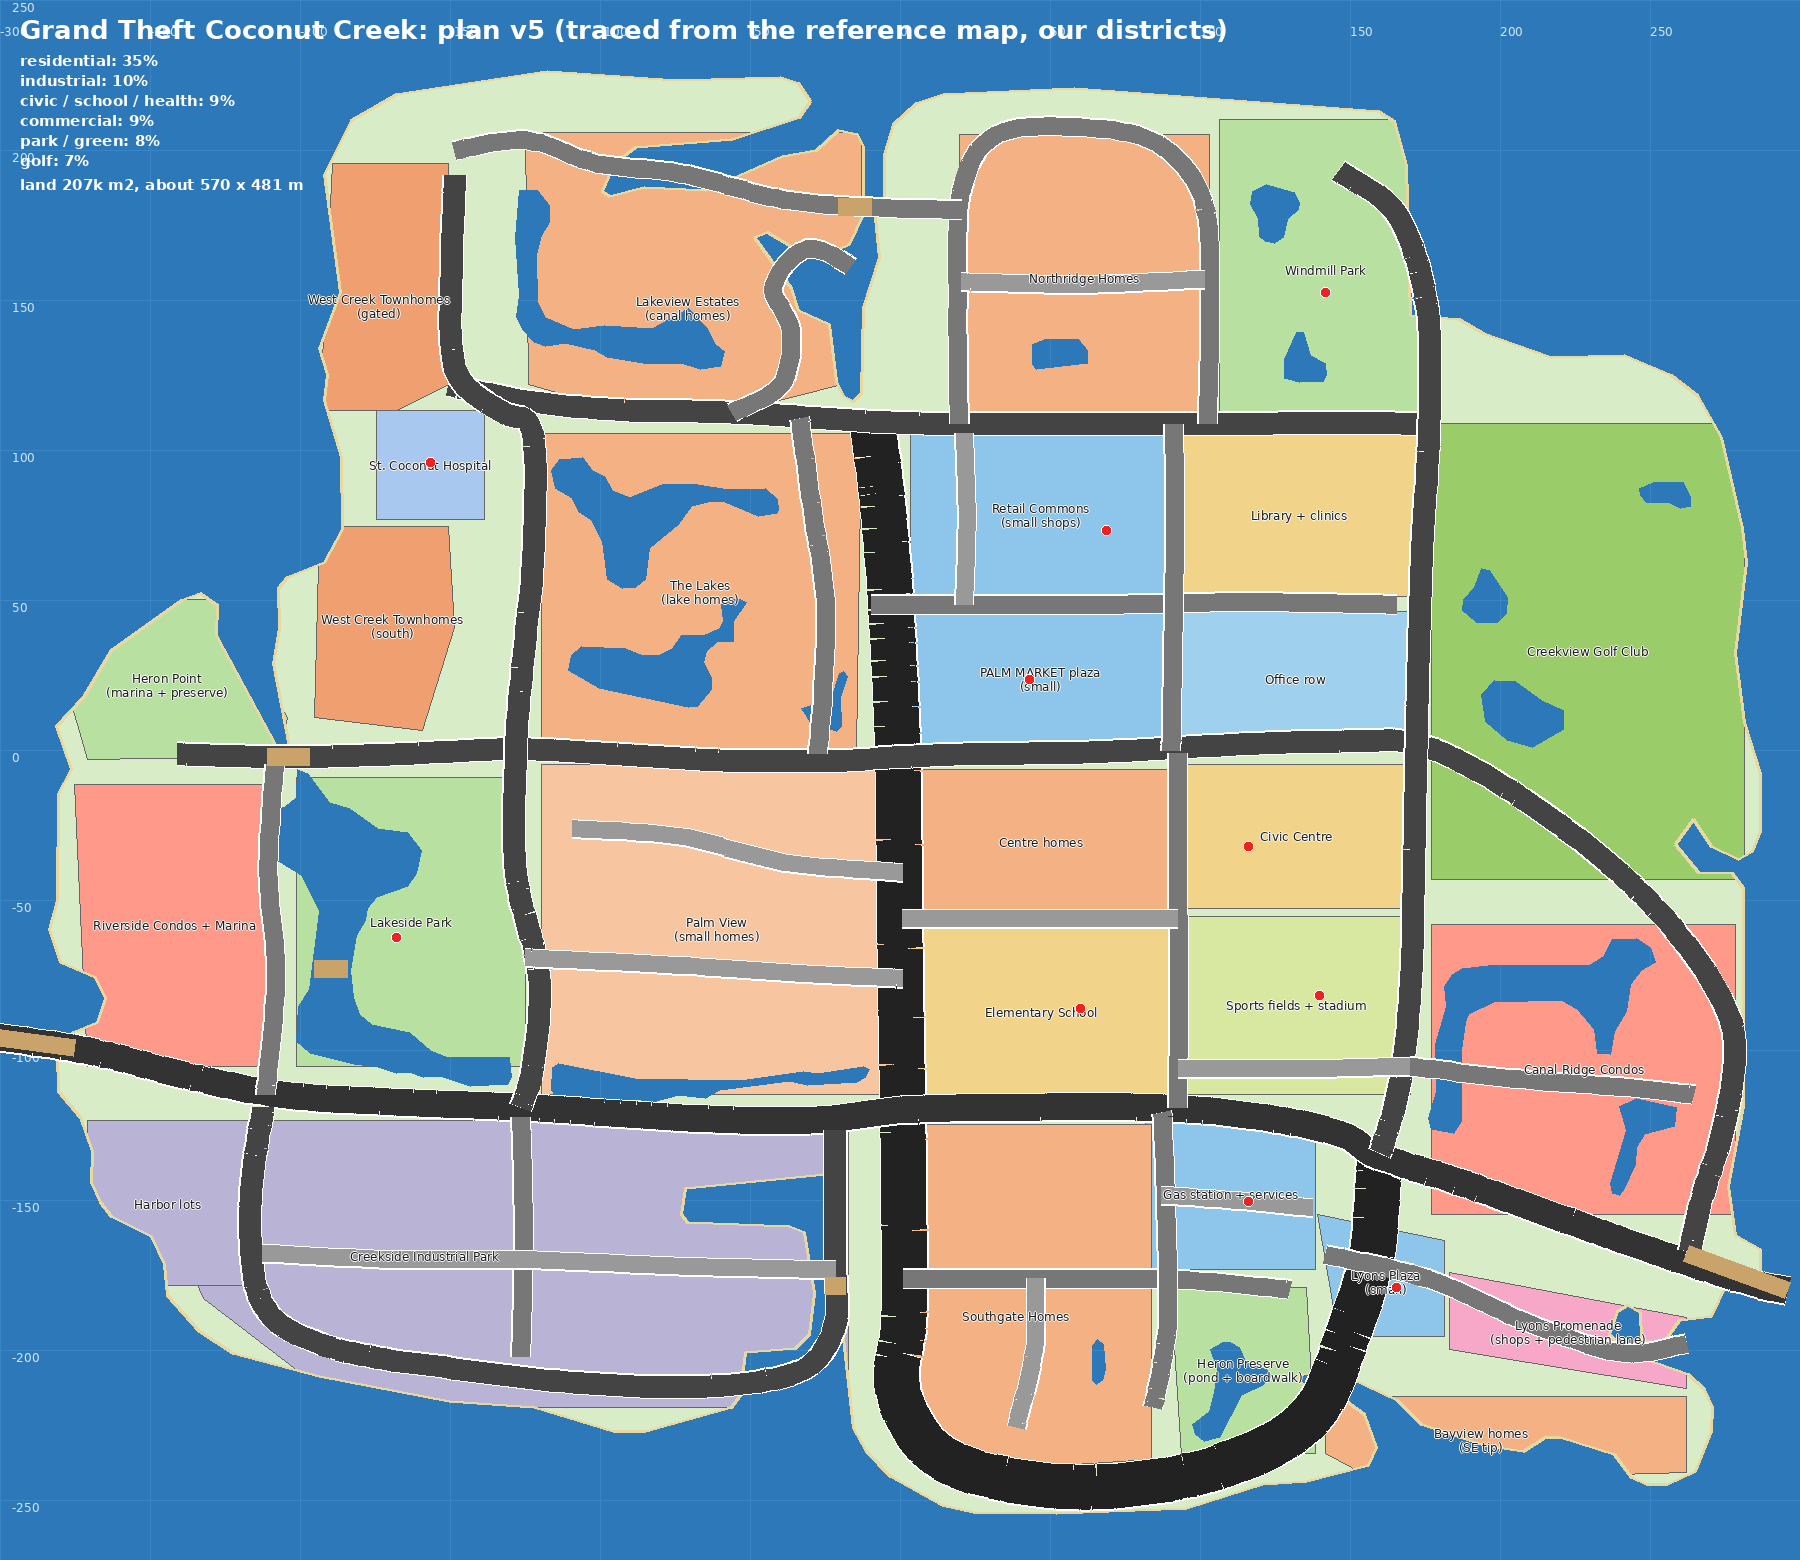
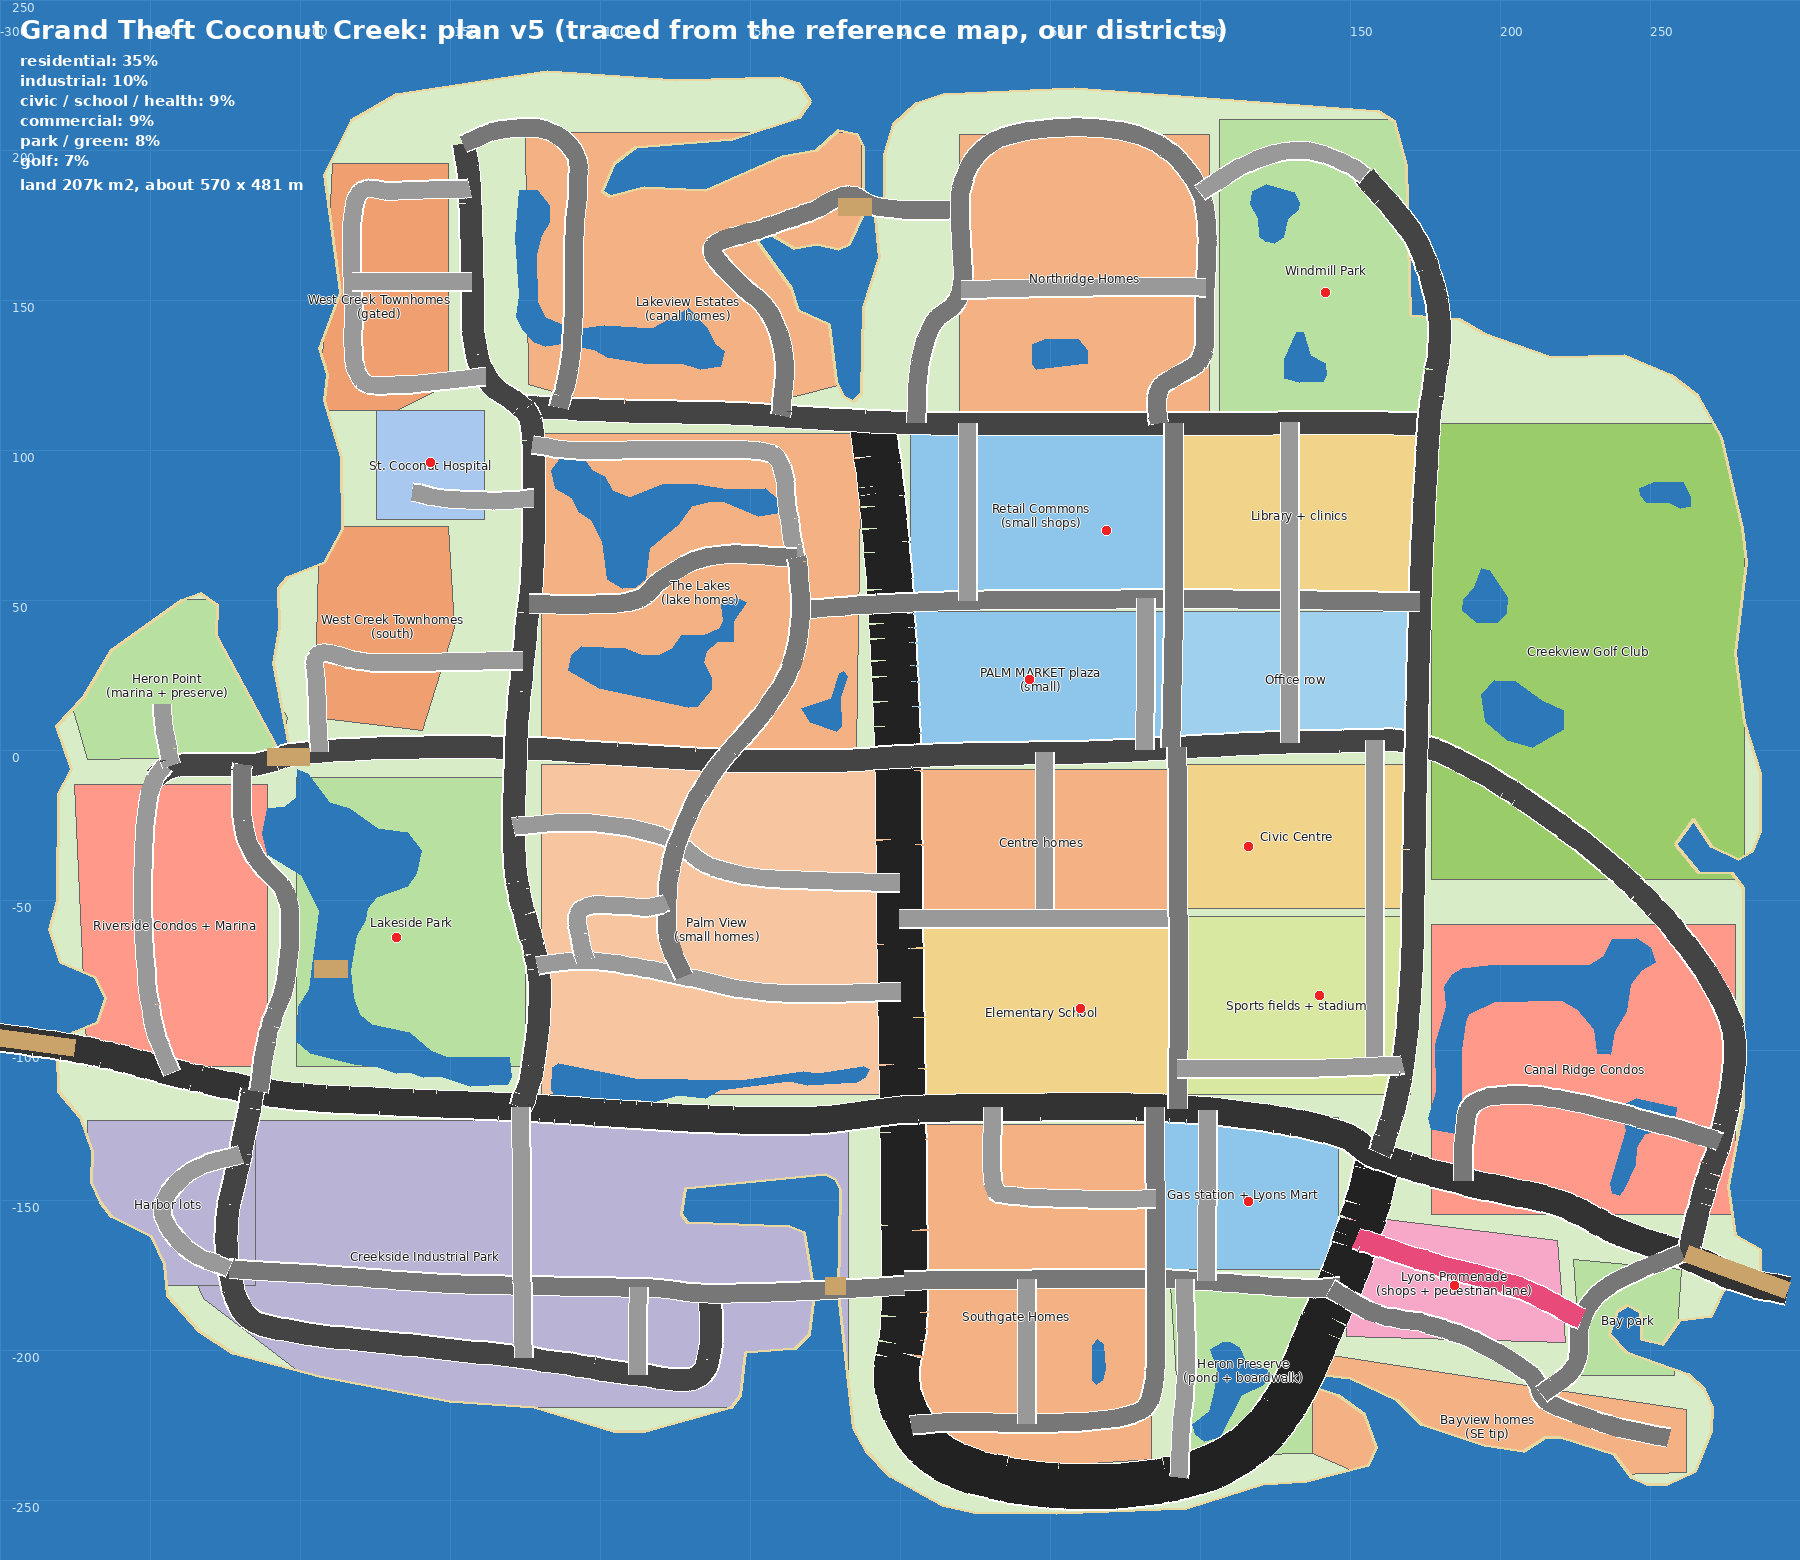
city-clone: plan v5 local streets (about 50 roads), road ends snap onto other roads, no loose ends
Claude-Session: https://claude.ai/code/session_01QbDoFPGu5z24oXZd8dk3Jx

diff --git a/city-clone/plan/map_px.py b/city-clone/plan/map_px.py
@@ -5,38 +5,102 @@ Scale: 0.43 m per pixel, origin = pixel (690, 545) = Coconut Creek Pkwy x mid ro
 SCALE = 0.43; OX, OY = 690, 545
 def to_m(p): return ((p[0] - OX) * SCALE, -(p[1] - OY) * SCALE)
 
-# name: (rank, half-width m, points px).  rank 10 boulevard, 9 arterial, 8 main, 6 collector, 5 local
-ROADS = {
- "Coconut Creek Pkwy": (10, 8.4, [(668, 290), (675, 340), (682, 420), (688, 540), (690, 700), (692, 820), (693, 900), (693, 985), (688, 1040), (715, 1088), (770, 1110), (850, 1116), (940, 1100), (1008, 1062), (1040, 990), (1056, 935), (1062, 858)]),
- "Wiles Rd": (9, 5.0, [(-20, 766), (60, 778), (130, 796), (210, 812), (300, 818), (400, 822), (520, 830), (620, 832), (692, 824), (780, 822), (880, 822), (960, 828), (1030, 842), (1062, 860), (1130, 882), (1250, 925), (1340, 955), (1378, 964)]),
- "Palm Blvd": (8, 4.2, [(130, 548), (215, 550), (300, 548), (390, 544), (470, 548), (560, 553), (640, 553), (692, 550), (740, 548), (850, 546), (960, 540), (1040, 538), (1090, 540), (1150, 568), (1230, 625), (1295, 690), (1335, 760), (1330, 830), (1312, 890), (1302, 934)]),
- "Northridge Rd": (8, 4.2, [(340, 262), (400, 274), (470, 281), (560, 283), (668, 290), (740, 292), (840, 292), (940, 292), (1030, 291), (1098, 292)]),
- "Creekview Dr": (8, 4.2, [(1030, 96), (1075, 130), (1098, 200), (1100, 292), (1094, 400), (1090, 540), (1088, 640), (1086, 720), (1078, 800), (1062, 858)]),
- "West Creek Rd": (8, 4.2, [(345, 100), (342, 170), (345, 250), (380, 282), (405, 300), (405, 400), (398, 470), (392, 545), (392, 640), (410, 720), (405, 790), (396, 822)]),
- "Creekside Loop": (8, 4.2, [(196, 822), (186, 900), (196, 975), (250, 1008), (350, 1025), (450, 1036), (545, 1038), (615, 1025), (640, 990), (640, 940), (640, 840)]),
- "Northridge Loop": (6, 3.5, [(736, 292), (735, 200), (738, 112), (765, 68), (830, 62), (890, 75), (925, 120), (930, 200), (928, 292)]),
- "Northridge Ln": (5, 3.2, [(738, 182), (830, 184), (926, 180)]),
- "Lakeview Bridge Rd": (6, 3.5, [(345, 80), (400, 72), (455, 90), (520, 98), (600, 118), (668, 124), (738, 126)]),
- "Lakeview Dr": (6, 3.5, [(560, 283), (598, 262), (606, 220), (592, 186), (618, 156), (652, 170)]),
- "Retail Dr": (6, 3.5, [(668, 432), (740, 432), (850, 432), (960, 430), (1075, 432)]),
- "Commons Ave": (6, 3.5, [(902, 293), (903, 360), (902, 432), (900, 545)]),
- "Civic Rd": (6, 3.5, [(905, 548), (905, 640), (906, 720), (905, 822)]),
- "Fields Dr": (5, 3.2, [(906, 792), (1000, 792), (1086, 790)]),
+# name: (rank, half-width m, points px).  rank 10 boulevard, 9 arterial, 8 main, 6 collector, 5 local, 3 pedestrian lane.
+# Every road end is snapped onto another road within SNAP px (so nothing nearly meets); loose ends are listed by check_roads() unless named in OK_ENDS.
+RAW_ROADS = {
+ "Coconut Creek Pkwy": (10, 8.4, [(668, 290), (675, 340), (682, 420), (688, 540), (690, 700), (692, 820), (693, 900), (693, 985), (688, 1040), (715, 1088), (770, 1110), (850, 1116), (920, 1105), (965, 1080), (995, 1040), (1015, 995), (1033, 955), (1050, 905), (1062, 858)]),
+ "Wiles Rd": (9, 5.0, [(-20, 766), (60, 778), (130, 796), (210, 812), (300, 818), (400, 822), (520, 830), (620, 832), (692, 824), (780, 822), (880, 822), (960, 828), (1030, 842), (1062, 860), (1130, 880), (1200, 896), (1250, 920), (1300, 937), (1340, 955), (1378, 964)]),
+ "Palm Blvd": (8, 4.2, [(100, 558), (130, 557), (190, 556), (212, 550), (240, 546), (300, 543), (390, 543), (470, 548), (560, 553), (640, 553), (692, 550), (740, 548), (850, 546), (960, 540), (1040, 538), (1090, 540), (1150, 568), (1230, 625), (1295, 690), (1335, 760), (1330, 830), (1312, 890), (1302, 934)]),
+ "Northridge Rd": (8, 4.2, [(395, 278), (470, 282), (560, 284), (668, 290), (740, 292), (840, 292), (940, 292), (1030, 291), (1098, 292)]),
+ "Creekview Dr": (8, 4.2, [(1050, 100), (1090, 150), (1108, 215), (1100, 292), (1094, 400), (1090, 540), (1088, 640), (1086, 720), (1078, 800), (1062, 858)]),
+ "West Creek Rd": (8, 4.2, [(352, 75), (356, 110), (358, 170), (360, 230), (372, 260), (395, 278), (405, 300), (405, 400), (398, 470), (392, 545), (392, 640), (410, 720), (405, 790), (396, 822)]),
+ "Creekside Loop": (8, 4.2, [(186, 822), (176, 870), (168, 910), (170, 950), (185, 985), (230, 997), (300, 1005), (400, 1016), (480, 1028), (530, 1032), (543, 1010), (543, 975)]),
+ # north-west lobe
+ "Lakeview Loop": (6, 3.5, [(352, 75), (380, 64), (415, 64), (438, 82), (440, 110), (437, 150), (437, 200), (433, 250), (425, 279)]),
+ "Lakeview Island Rd": (6, 3.5, [(738, 126), (700, 127), (668, 123), (650, 115), (620, 128), (580, 142), (545, 155), (560, 178), (588, 205), (600, 240), (598, 278)]),
+ "West Creek Ln": (5, 3.2, [(357, 110), (300, 112), (268, 118), (266, 200), (270, 255), (300, 262), (358, 262)]),
+ "West Creek Ln 2": (5, 3.2, [(268, 182), (312, 182), (358, 182)]),
+ "Hospital Dr": (5, 3.2, [(405, 350), (375, 352), (335, 350), (312, 345)]),
+ "Townhome Ln": (5, 3.2, [(240, 546), (238, 500), (240, 470), (280, 477), (370, 476), (400, 476)]),
+ # north-east lobe
+ "Northridge Loop": (6, 3.5, [(703, 292), (705, 250), (715, 215), (738, 188), (738, 110), (765, 72), (830, 62), (890, 75), (925, 120), (926, 200), (924, 240), (905, 255), (890, 266), (890, 292)]),
+ "Northridge Ln": (5, 3.2, [(738, 188), (850, 186), (925, 186)]),
+ "Windmill Dr": (5, 3.2, [(925, 112), (960, 90), (1000, 80), (1035, 90), (1050, 100)]),
+ # centre
+ "Retail Dr": (6, 3.5, [(613, 436), (640, 434), (668, 432), (740, 429), (850, 428), (960, 428), (1094, 430)]),
+ "Retail Row": (5, 3.2, [(742, 293), (742, 429)]),
+ "Commons Ave": (6, 3.5, [(902, 293), (902, 428), (900, 546)]),
+ "Market Ln": (5, 3.2, [(880, 429), (880, 546)]),
+ "Mart Lane": (5, 3.2, [(992, 293), (992, 430), (992, 540)]),
+ "Centre Ln": (5, 3.2, [(802, 548), (802, 676)]),
  "School Dr": (5, 3.2, [(692, 676), (780, 676), (905, 676)]),
- "Southgate Rd": (6, 3.5, [(693, 955), (800, 955), (900, 955), (992, 963)]),
- "Southgate Ln": (6, 3.5, [(893, 826), (896, 900), (897, 990), (886, 1055)]),
- "Lyons Ln": (6, 3.5, [(1020, 936), (1100, 955), (1180, 990), (1250, 1012), (1300, 1005)]),
- "Canal Rd": (6, 3.5, [(1086, 790), (1170, 800), (1250, 806), (1305, 812)]),
- "Lakes Dr": (6, 3.5, [(612, 288), (622, 360), (632, 430), (630, 500), (626, 548)]),
- "Palm View Rd": (5, 3.2, [(400, 706), (520, 712), (610, 718), (692, 722)]),
- "Palm Ct Rd": (5, 3.2, [(436, 606), (520, 612), (600, 632), (692, 640)]),
- "Riverside Dr": (6, 3.5, [(205, 556), (200, 640), (206, 720), (198, 812)]),
- "Creekside Rd": (6, 3.5, [(396, 830), (398, 920), (396, 1015)]),
- "Industrial Row": (5, 3.2, [(196, 935), (300, 940), (396, 940), (520, 945), (640, 948)]),
- "Retail Row": (5, 3.2, [(740, 432), (742, 365), (740, 300)]),
- "Southgate Ave": (5, 3.2, [(795, 955), (794, 1010), (780, 1070)]),
- "Gas Station Rd": (5, 3.2, [(893, 890), (960, 895), (1010, 900)]),
+ "Civic Rd": (6, 3.5, [(905, 548), (905, 640), (906, 720), (905, 822)]),
+ "Stadium Ln": (5, 3.2, [(1058, 548), (1058, 676), (1058, 790)]),
+ "Fields Dr": (5, 3.2, [(906, 792), (1000, 792), (1086, 790)]),
+ # the lakes + palm view
+ "Lakes Lane N": (5, 3.2, [(405, 308), (440, 313), (500, 312), (580, 313), (598, 325), (603, 360), (609, 395)]),
+ "Lakes Dr": (6, 3.5, [(405, 432), (480, 430), (505, 413), (530, 398), (560, 393), (610, 396)]),
+ "Lakes Diag N": (6, 3.5, [(610, 396), (613, 440), (605, 480), (585, 515), (556, 548)]),
+ "Palm Ct Rd": (5, 3.2, [(396, 604), (437, 601), (480, 605), (515, 616), (540, 634), (575, 643), (620, 646), (688, 648)]),
+ "Palm View Rd": (5, 3.2, [(410, 712), (445, 708), (485, 713), (525, 721), (570, 731), (620, 734), (688, 732)]),
+ "Lakes Diag S": (6, 3.5, [(556, 548), (535, 578), (518, 614), (510, 650), (510, 690), (522, 721)]),
+ "Palm View Loop": (5, 3.2, [(446, 708), (443, 668), (495, 667), (510, 663)]),
+ # west
+ "Riverside Dr": (6, 3.5, [(180, 558), (180, 600), (190, 628), (213, 655), (217, 690), (212, 730), (200, 765), (193, 808)]),
+ "Marina Dr": (5, 3.2, [(120, 558), (108, 578), (103, 640), (105, 710), (112, 760), (125, 795)]),
+ "Heron Point Dr": (5, 3.2, [(125, 557), (120, 530), (118, 510)]),
+ # industrial
+ "Industrial Row": (6, 3.5, [(172, 948), (250, 952), (330, 958), (397, 960), (497, 962), (542, 966), (620, 964), (692, 960)]),
+ "Creekside Rd": (5, 3.2, [(397, 826), (397, 960), (398, 1016)]),
+ "Dock Ln": (5, 3.2, [(487, 962), (487, 1024)]),
+ "Harbor Lot Rd": (5, 3.2, [(176, 858), (140, 872), (118, 900), (135, 930), (170, 947)]),
+ # south-east
+ "Southgate Rd": (6, 3.5, [(693, 956), (800, 955), (900, 955), (1000, 962), (1034, 962)]),
+ "Southgate Ln": (6, 3.5, [(887, 826), (888, 955), (886, 1040), (870, 1060), (830, 1066), (780, 1067), (738, 1066), (700, 1068)]),
+ "Southgate Ave": (5, 3.2, [(788, 955), (788, 1066)]),
+ "Southgate Ct": (5, 3.2, [(762, 838), (762, 880), (775, 890), (830, 893), (887, 893)]),
+ "Gas Station Rd": (5, 3.2, [(928, 826), (928, 955)]),
+ "Preserve Rd": (5, 3.2, [(910, 962), (912, 1020), (908, 1070), (906, 1108)]),
+ "Lyons Ln": (6, 3.5, [(1024, 965), (1060, 982), (1100, 990), (1140, 1005), (1180, 1030), (1192, 1050), (1240, 1068), (1286, 1078)]),
+ "Bay Dr": (6, 3.5, [(1296, 936), (1253, 953), (1230, 968), (1217, 990), (1213, 1023), (1192, 1042)]),
+ "Lyons Promenade": (3, 4.0, [(1048, 925), (1110, 945), (1170, 962), (1216, 985)]),
+ "Canal Ridge Dr": (6, 3.5, [(1128, 874), (1128, 840), (1135, 818), (1170, 812), (1215, 818), (1280, 835), (1318, 846)]),
 }
+OK_ENDS = {("Palm Blvd", 0), ("Heron Point Dr", -1), ("Hospital Dr", -1), ("Lyons Ln", -1), ("Wiles Rd", 0), ("Wiles Rd", -1)}   # coast / bridge-gate / lot / cul-de-sac ends allowed
+SNAP = 17.0
+def _cr(pts, step=4.0):
+    import math
+    n = len(pts); out = []
+    for i in range(n - 1):
+        p0, p1, p2, p3 = pts[max(i - 1, 0)], pts[i], pts[i + 1], pts[min(i + 2, n - 1)]
+        k = max(2, int(math.dist(p1, p2) / step))
+        for j in range(k):
+            t = j / k; t2, t3 = t * t, t * t * t
+            out.append(tuple(.5 * ((2 * p1[d]) + (-p0[d] + p2[d]) * t + (2 * p0[d] - 5 * p1[d] + 4 * p2[d] - p3[d]) * t2 + (-p0[d] + 3 * p1[d] - 3 * p2[d] + p3[d]) * t3) for d in (0, 1)))
+    out.append(tuple(pts[-1])); return out
+def _seg_near(p, poly):
+    import math
+    best = (1e9, None)
+    for a, b in zip(poly, poly[1:]):
+        dx, dy = b[0] - a[0], b[1] - a[1]; L2 = dx * dx + dy * dy or 1; t = max(0, min(1, ((p[0] - a[0]) * dx + (p[1] - a[1]) * dy) / L2)); q = (a[0] + dx * t, a[1] + dy * t); d = math.dist(p, q)
+        if d < best[0]: best = (d, q)
+    return best
+def snap_roads(raw):
+    """Move each road end onto the nearest other road if within SNAP px; returns (roads, loose ends)."""
+    smooth = {k: _cr(v[2]) for k, v in raw.items()}; out = {}; loose = []
+    for k, (rank, hw, pts) in raw.items():
+        pts = list(pts)
+        for idx in (0, -1):
+            e = pts[idx]; best = (1e9, None, None)
+            for k2, sm in smooth.items():
+                if k2 == k: continue
+                d, q = _seg_near(e, sm)
+                if d < best[0]: best = (d, q, k2)
+            if best[0] <= SNAP: pts[idx] = (round(best[1][0], 1), round(best[1][1], 1))
+            elif (k, idx) not in OK_ENDS and rank > 3: loose.append((k, idx, e, round(best[0]), best[2]))
+        out[k] = (rank, hw, pts)
+    return out, loose
+ROADS, LOOSE_ENDS = snap_roads(RAW_ROADS)
 # bridges: (name, a, b) pixel endpoints, carry the road across water
 BRIDGES = [("Wiles West Bridge", (-20, 766), (50, 776)), ("Wiles East Bridge", (1300, 935), (1378, 964)), ("Palm Blvd Bridge", (200, 550), (232, 550)),
            ("Lakeview Bridge", (642, 124), (668, 124)), ("Creekside Bridge", (632, 960), (648, 960)), ("Lakeside footbridge", (236, 714), (262, 714))]
@@ -68,13 +132,13 @@ DISTRICTS = {
  "Windmill Park": (GRN, "#b8e0a0", [(938, 56), (1100, 56), (1104, 290), (938, 290)]),
  "Creekview Golf Club": (GOLF, "#9acd6a", [(1102, 292), (1345, 292), (1345, 645), (1102, 645)]),
  "Canal Ridge Condos": (RES, "#ff9a8a", [(1102, 680), (1338, 680), (1338, 905), (1102, 905)]),
- "Gas station + services": (COM, "#8ec5ea", [(880, 830), (1012, 830), (1012, 948), (880, 948)]),
- "Lyons Plaza (small)": (COM, "#8ec5ea", [(1014, 905), (1112, 925), (1112, 1000), (1030, 1000)]),
- "Lyons Promenade (shops + pedestrian lane)": (COM, "#f7a8c8", [(1116, 950), (1300, 985), (1300, 1040), (1116, 1010)]),
+ "Gas station + Lyons Mart": (COM, "#8ec5ea", [(880, 830), (1030, 830), (1030, 948), (880, 948)]),
+ "Lyons Promenade (shops + pedestrian lane)": (COM, "#f7a8c8", [(1036, 905), (1200, 925), (1206, 1004), (1036, 1000)]),
+ "Bay park": (GRN, "#b8e0a0", [(1212, 940), (1296, 948), (1290, 1030), (1218, 1030)]),
  "Southgate Homes": (RES, "#f4b183", [(700, 835), (885, 835), (885, 1095), (730, 1105), (700, 1050)]),
  "Heron Preserve (pond + boardwalk)": (GRN, "#b8e0a0", [(900, 960), (1005, 962), (1012, 1090), (908, 1092)]),
- "Bayview homes (SE tip)": (RES, "#f4b183", [(1020, 1046), (1300, 1046), (1300, 1105), (1060, 1112), (1020, 1090)]),
+ "Bayview homes (SE tip)": (RES, "#f4b183", [(1010, 1012), (1190, 1040), (1300, 1056), (1300, 1105), (1060, 1112), (1010, 1090)]),
  "Harbor lots": (IND, "#b9b4d6", [(60, 832), (190, 832), (190, 960), (110, 960), (60, 900)]),
 }
-LANDMARKS = [("PALM MARKET", (790, 490)), ("Civic Centre", (960, 620)), ("Retail Commons", (850, 375)), ("Gas station", (960, 895)), ("Lyons Plaza", (1075, 962)),
+LANDMARKS = [("PALM MARKET", (790, 490)), ("Civic Centre", (960, 620)), ("Retail Commons", (850, 375)), ("Gas station", (960, 895)), ("Lyons Promenade", (1120, 960)),
              ("Windmill Park", (1020, 190)), ("Lakeside Park", (300, 690)), ("Stadium", (1015, 735)), ("Elementary", (830, 745)), ("Hospital", (326, 322))]

diff --git a/city-clone/plan/plan_v5.py b/city-clone/plan/plan_v5.py
@@ -16,7 +16,7 @@ def catmull(pts, closed=False, step=6.0):
             out.append(tuple(.5 * ((2 * p1[d]) + (-p0[d] + p2[d]) * t + (2 * p0[d] - 5 * p1[d] + 4 * p2[d] - p3[d]) * t2 + (-p0[d] + 3 * p1[d] - 3 * p2[d] + p3[d]) * t3) for d in (0, 1)))
     if not closed: out.append(pts[-1])
     return out
-RANK_COL = {10: "#222", 9: "#333", 8: "#444", 6: "#777", 5: "#999"}
+RANK_COL = {3: "#e84a7a", 10: "#222", 9: "#333", 8: "#444", 6: "#777", 5: "#999"}
 def draw_px(d, W, S, F, with_roads=True, label=True, alpha_fill=None):
     pass
 def font(sz, bold=False):
